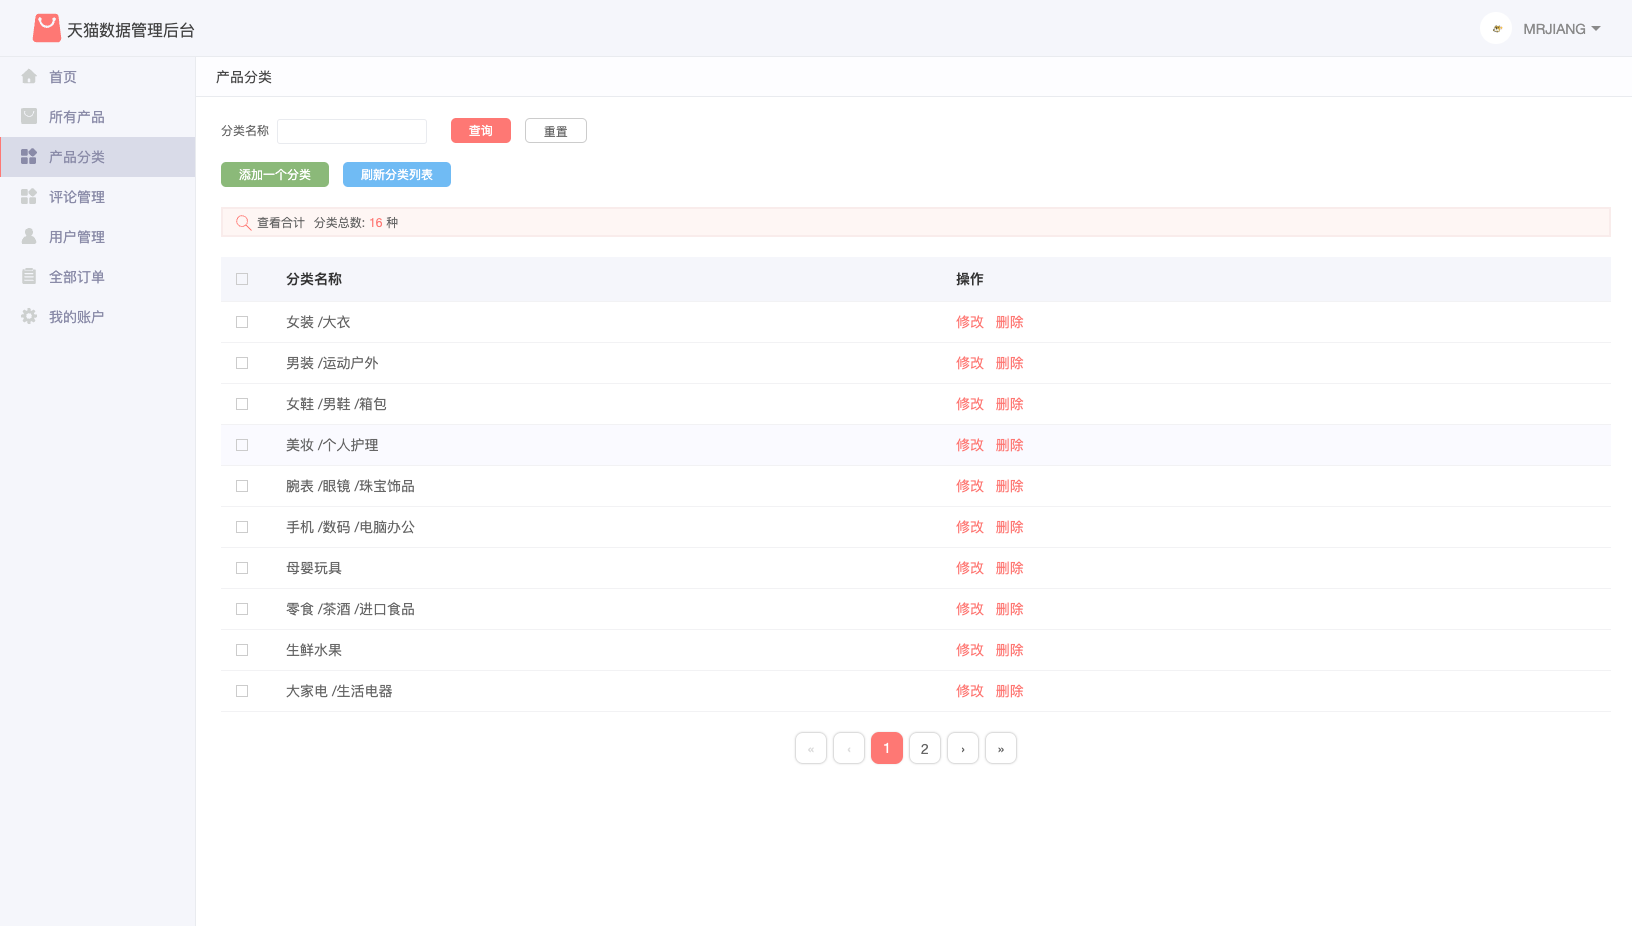
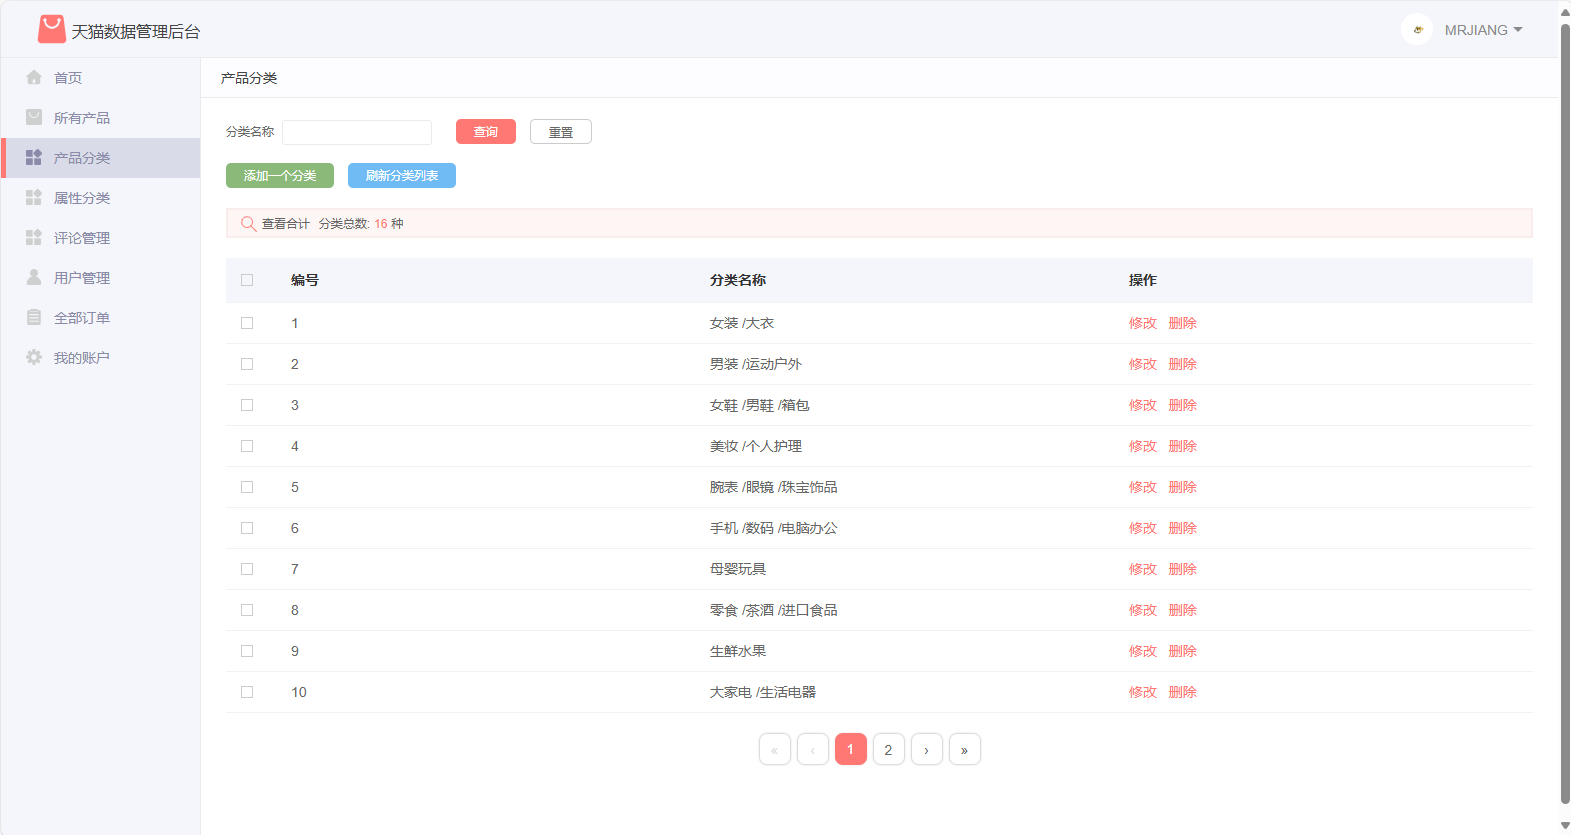
新增属性分类文档介绍

diff --git a/README.en.md b/README.en.md
@@ -22,12 +22,14 @@ The backend page is compatible with modern browsers such as IE10 and above, and 
 Attention: It is normal for the order chart in the backend management interface to have no data. The chart displays the transaction volume for the past 7 days.
 
 ---Background interface (partial) - Access address: http://localhost:8082/tmall/admin/login (The account name and password are in the admin table)
-![登录界面](images/img_2.png)
-![首页](images/img_3.png)
-![产品列表](images/img.png)
-![添加产品](images/img_1.png)
+![登录界面](images/img.png)
+![首页](images/img_1.png)
+![产品列表](images/img_2.png)
+![添加产品](images/img_3.png)
 ![产品详情](images/img_4.png)
 ![产品类别列表](images/img_5.png)
+![属性分类列表](images/img_12.png)
+![添加属性](images/img_13.png)
 ![评论管理](images/img_6.png)
 ![用户列表](images/img_7.png)
 ![用户详情](images/img_8.png)

diff --git a/README.md b/README.md
@@ -24,12 +24,14 @@ feature分支数据库sql如下：
 注意事项：后台管理界面的订单图表没有数据为正常现象，该图表显示的为近7天的交易额。
 
 ---后台界面(部分)--- 访问地址：http://localhost:8082/tmall/admin/login（账户名和密码在admin表里）
-![登录界面](images/img_2.png)
-![首页](images/img_3.png)
-![产品列表](images/img.png)
-![添加产品](images/img_1.png)
+![登录界面](images/img.png)
+![首页](images/img_1.png)
+![产品列表](images/img_2.png)
+![添加产品](images/img_3.png)
 ![产品详情](images/img_4.png)
 ![产品类别列表](images/img_5.png)
+![属性分类列表](images/img_12.png)
+![添加属性](images/img_13.png)
 ![评论管理](images/img_6.png)
 ![用户列表](images/img_7.png)
 ![用户详情](images/img_8.png)
